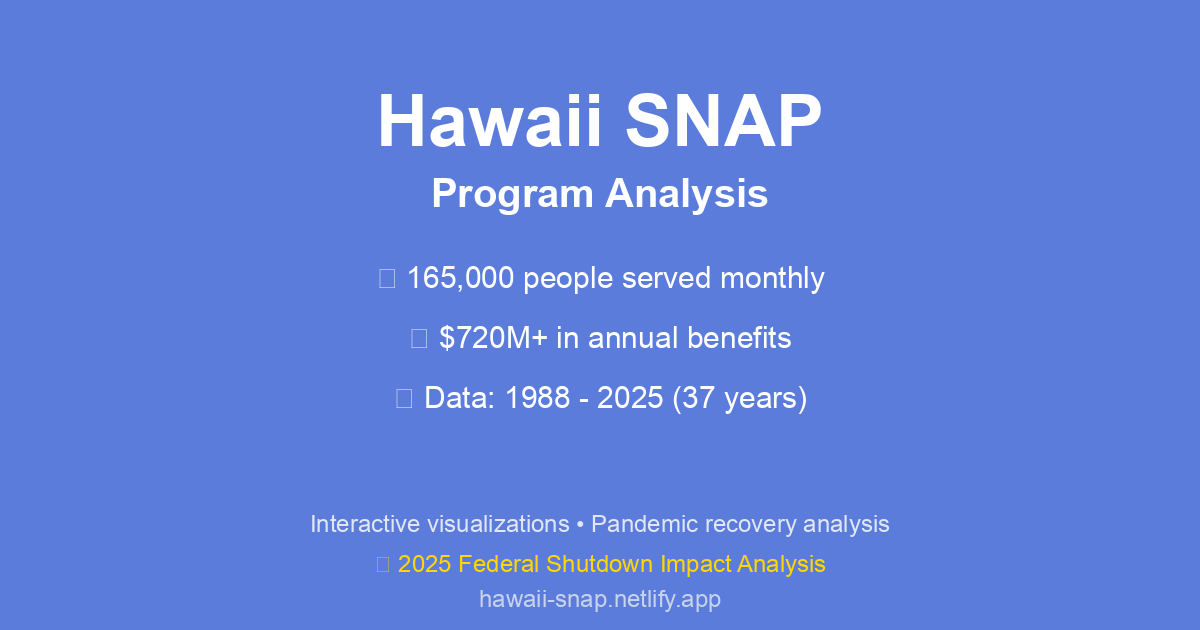
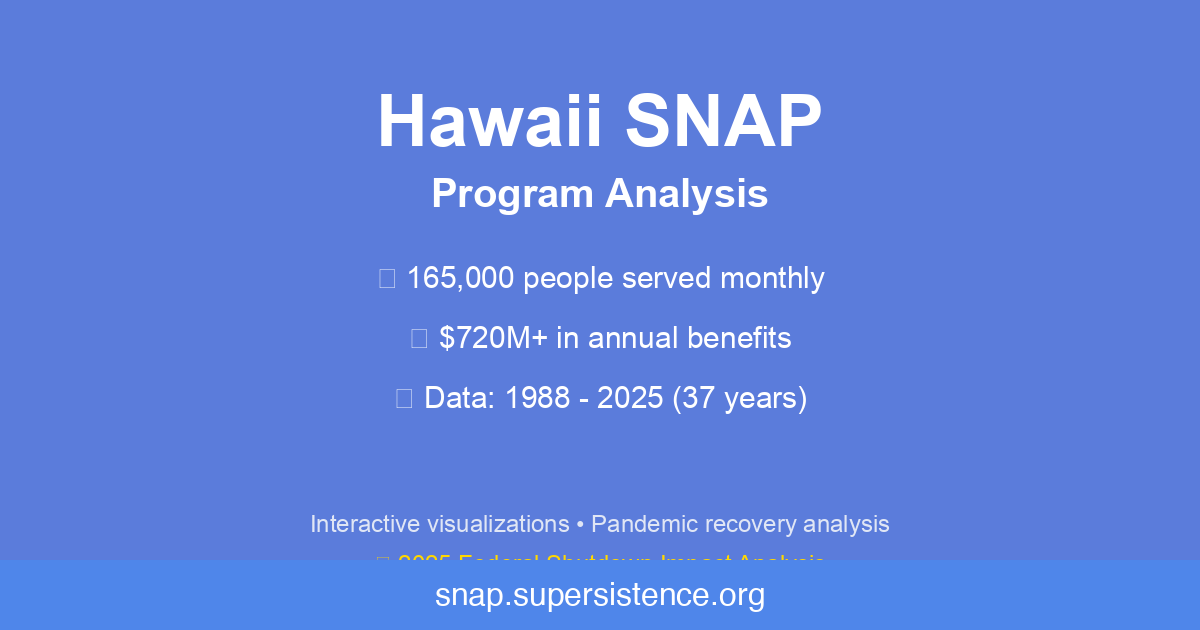
Update social card image to display snap.supersistence.org URL
Updated the social card image to show the correct custom domain (snap.supersistence.org) instead of the old Netlify subdomain (hawaii-snap.netlify.app).

Also added a Python script (update_social_card.py) for future social card updates.

🤖 Generated with [Claude Code](https://claude.com/claude-code)

Changed region(s): [[0.3392, 0.8746, 0.7092, 0.9651]]

diff --git a/scripts/update_social_card.py b/scripts/update_social_card.py
@@ -1,0 +1,61 @@
+#!/usr/bin/env python3
+"""
+Update social card image to change URL from hawaii-snap.netlify.app to snap.supersistence.org
+"""
+
+from PIL import Image, ImageDraw, ImageFont
+import os
+
+# Paths
+script_dir = os.path.dirname(os.path.abspath(__file__))
+project_root = os.path.dirname(script_dir)
+social_card_path = os.path.join(project_root, 'web', 'social-card.png')
+
+# Open the existing image
+img = Image.open(social_card_path)
+draw = ImageDraw.Draw(img)
+
+# Load a font - try to use a nice font, fallback to default
+try:
+    # Try Arial or Helvetica
+    font = ImageFont.truetype("/System/Library/Fonts/Helvetica.ttc", 32)
+except:
+    try:
+        font = ImageFont.truetype("/System/Library/Fonts/Supplemental/Arial.ttf", 32)
+    except:
+        # Use default font
+        font = ImageFont.load_default()
+
+# The old URL appears at the bottom of the image
+# We need to cover it with a rectangle and write new text
+
+# Based on the image, the URL is near the bottom
+# Cover the old URL with a blue rectangle (matching the background)
+# The background appears to be a blue gradient, approximately rgb(79, 134, 234)
+blue_color = (79, 134, 234)
+
+# Cover the old URL (approximate position based on viewing the image)
+# The URL "hawaii-snap.netlify.app" is centered near bottom
+old_url_region = (0, 560, 1200, 630)  # Full width, bottom area
+draw.rectangle(old_url_region, fill=blue_color)
+
+# Draw the new URL in the same position
+new_url = "snap.supersistence.org"
+
+# Get text bounding box to center it
+bbox = draw.textbbox((0, 0), new_url, font=font)
+text_width = bbox[2] - bbox[0]
+text_height = bbox[3] - bbox[1]
+
+# Center the text horizontally
+x = (1200 - text_width) / 2
+y = 580  # Approximate vertical position
+
+# Draw the new URL in white or light color
+text_color = (255, 255, 255, 200)  # White with slight transparency effect
+draw.text((x, y), new_url, fill=text_color, font=font)
+
+# Save the updated image
+img.save(social_card_path)
+print(f"✓ Updated social card: {social_card_path}")
+print(f"  Changed URL from 'hawaii-snap.netlify.app' to 'snap.supersistence.org'")
